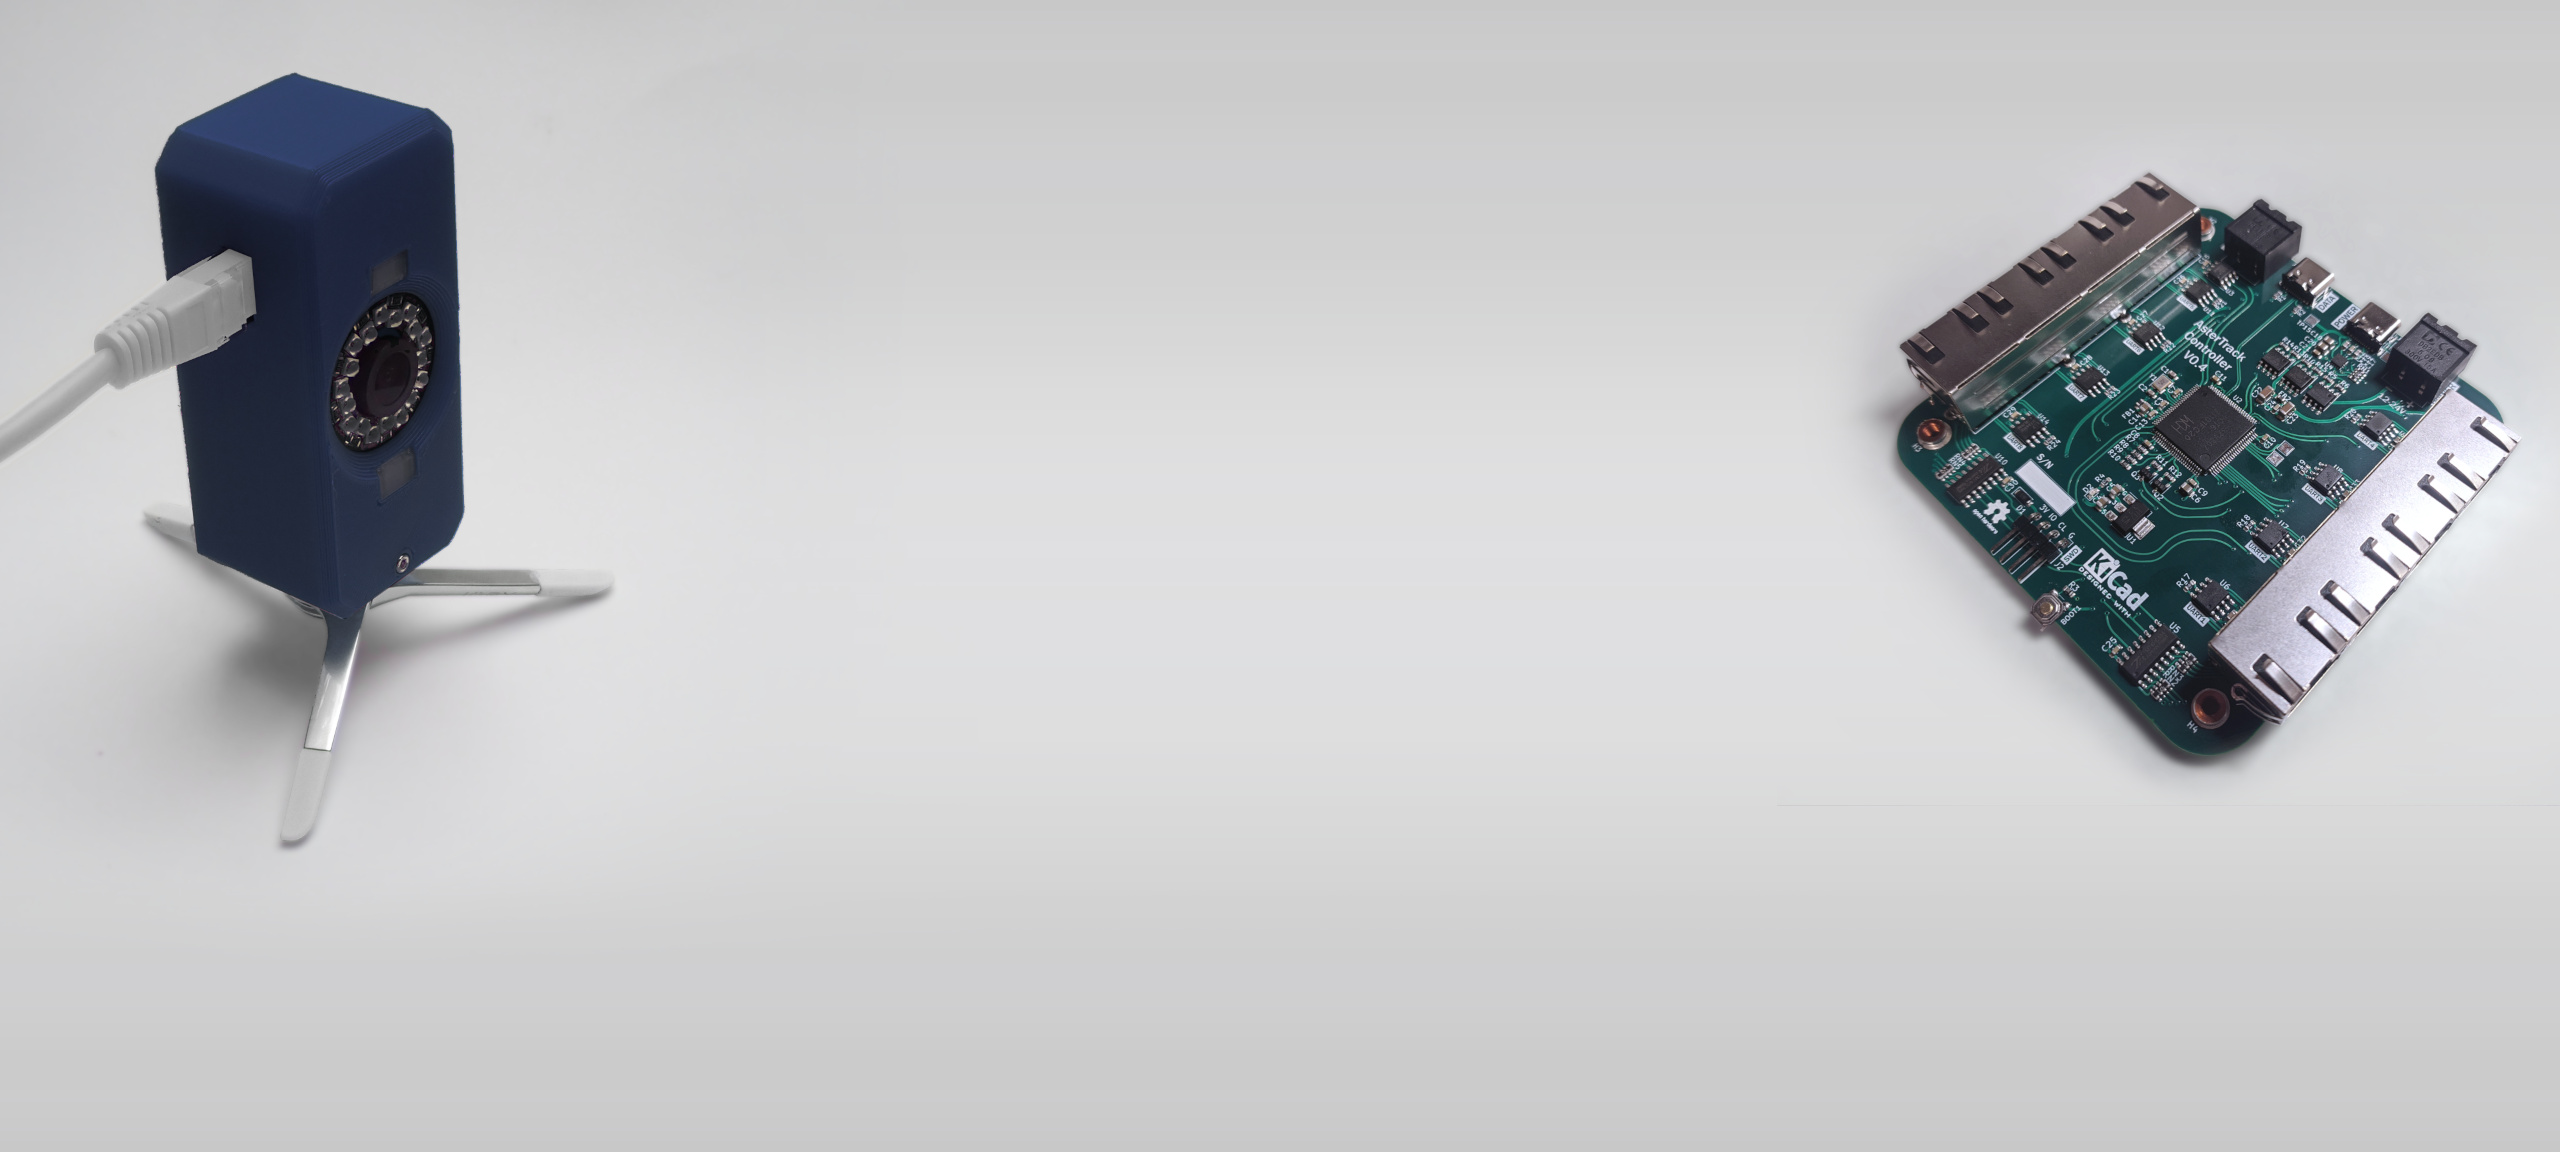
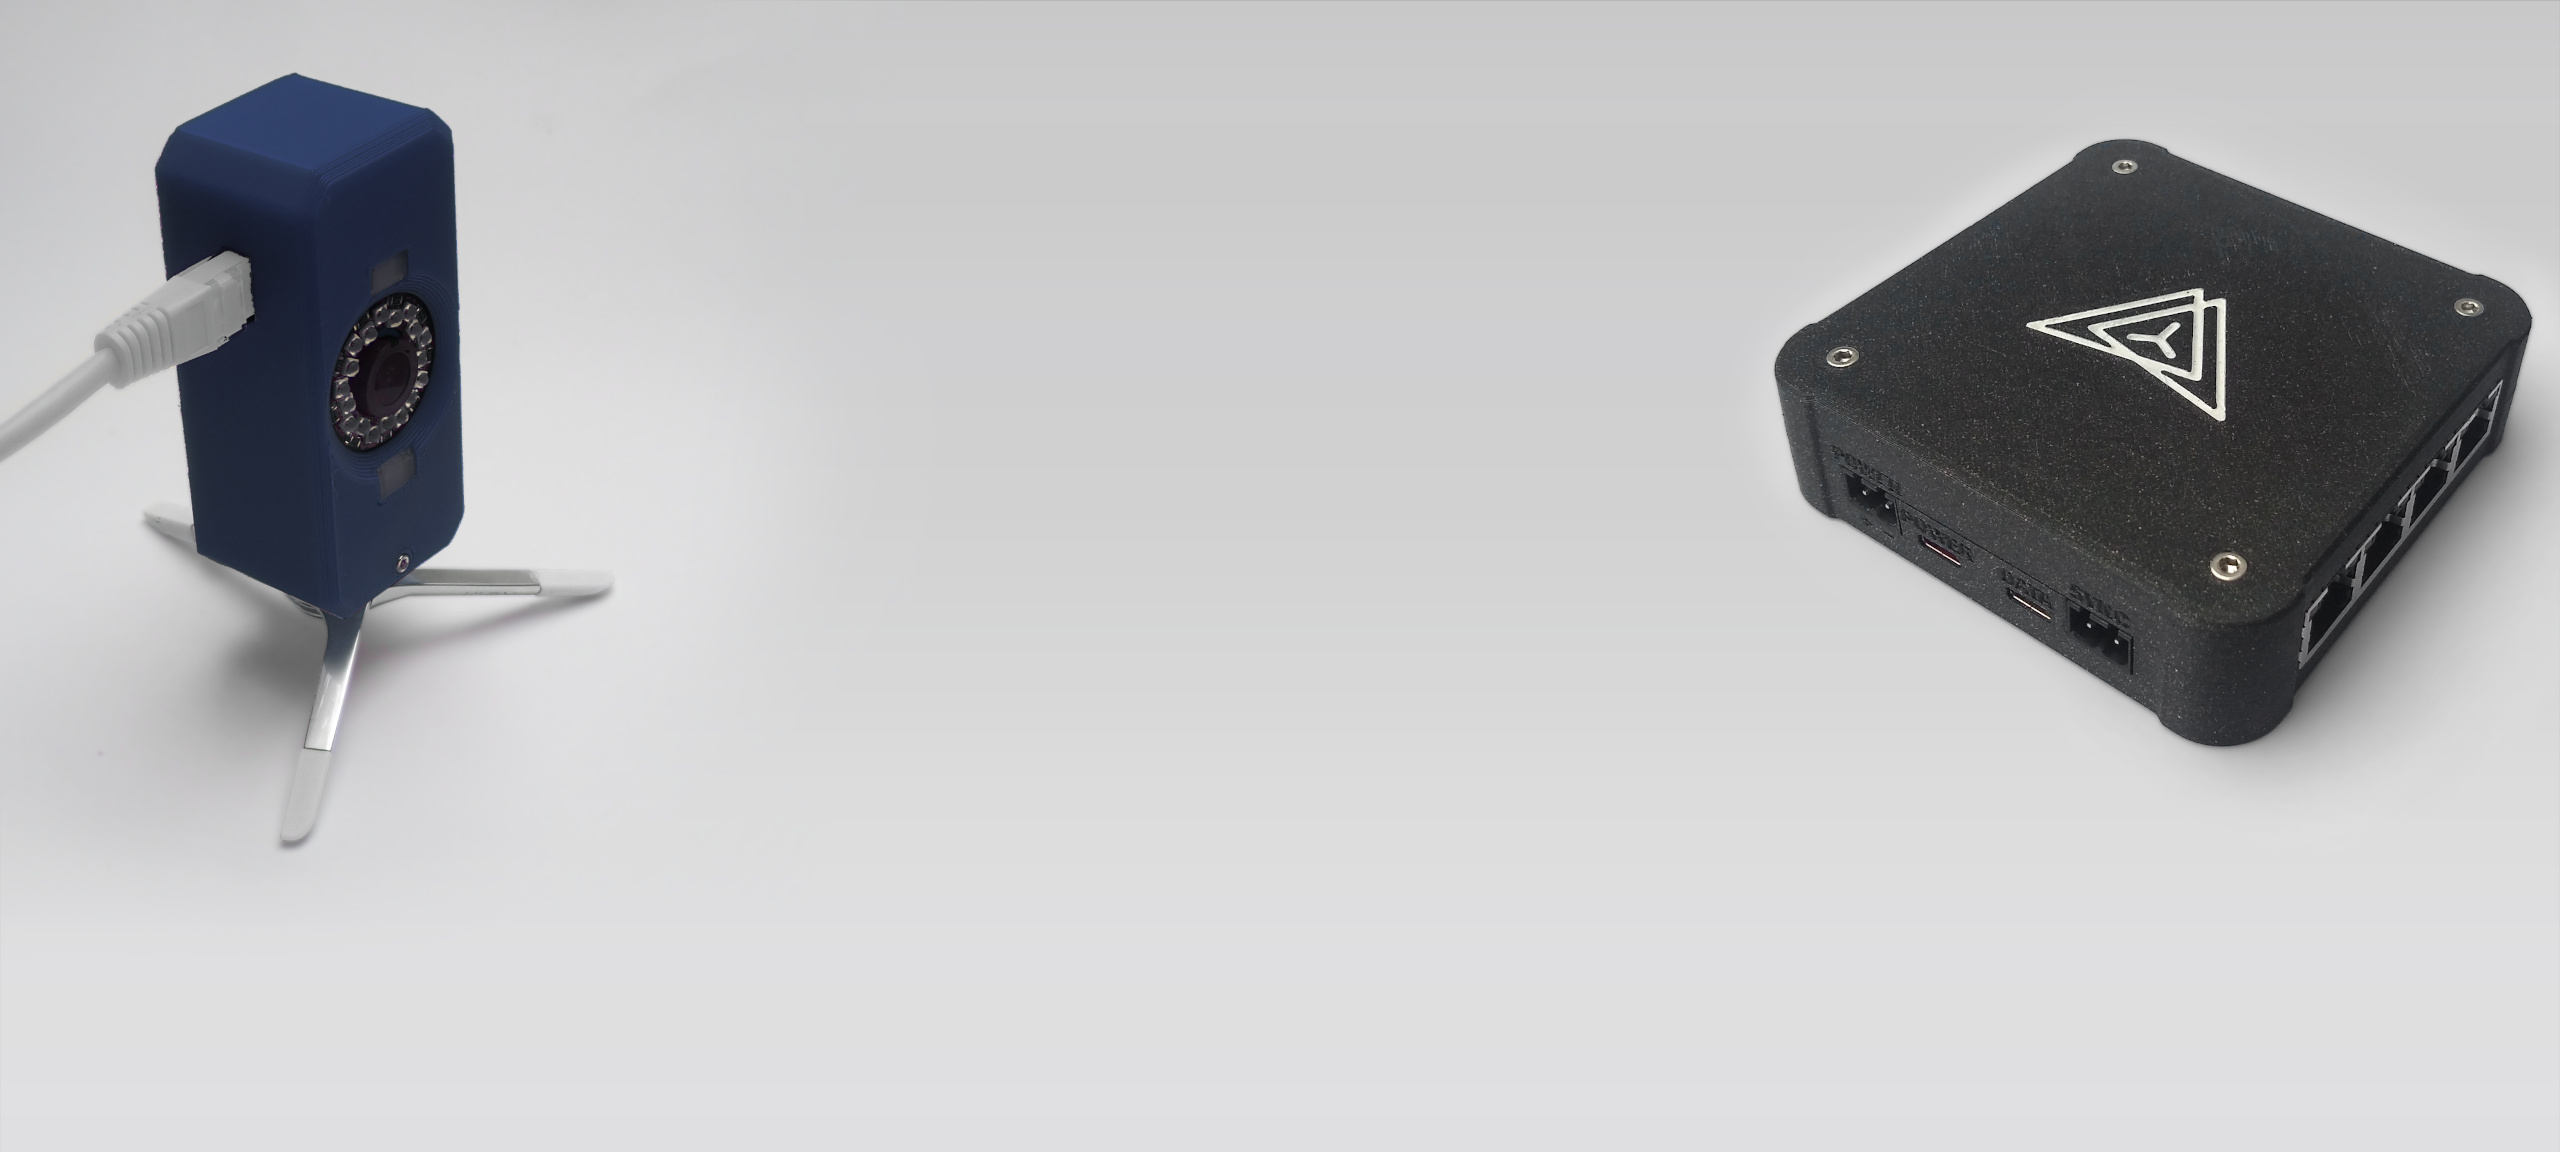
Added photos for new controller case

Changed region(s): [[0.6875, 0.125, 1.0, 0.6875], [0.0, 0.9688, 1.0, 1.0]]

diff --git a/astertrack.html b/astertrack.html
@@ -137,8 +137,8 @@ This can be used to track almost any everyday object with little to no intrusion
 <h4> Roadmap </h4>
 <p>
 The hardware is mostly designed and verified. <br>
-The software is almost ready, but work is still in progress to better calibrate targets. <br>
-We plan to launch a crowdfunding campaign in 2023 and release sources and designs at that point.
+The software is almost ready, but work is still in progress to better support flat-marker targets. <br>
+We plan to launch a crowdfunding campaign in 2024 and release sources and a DIY Design at that point.
 </p>
 
 <form method="post" action="https://mailinglist.seneral.dev/subscription/form" class="listmonk-form">
@@ -208,6 +208,19 @@ We plan to launch a crowdfunding campaign in 2023 and release sources and design
 </center>
 <br>
 
+<center><h3> 2024 </h3></center><br>
+
+<a class="noLinkStyle centerBlock" href="img/AsterTrack/HW_Prototype_Controller_V0.4.2_PortDescription_HQ.jpg" target="_blank">
+	<picture>
+		<source media="(min-width: 2400px)" srcset="img/AsterTrack/HW_Prototype_Controller_V0.4.2_PortDescription_HQ.jpg"/>
+		<source media="(min-width: 1800px)" srcset="img/AsterTrack/HW_Prototype_Controller_V0.4.2_PortDescription_MQ.jpg"/>
+		<img src="img/AsterTrack/HW_Prototype_Controller_V0.4.2_PortDescription_LQ.jpg"
+			alt="Prototype Tracking Controller, black case with IO ports one one side and 2 banks of 4 RJ45 camera ports"/>
+	</picture>
+<br> Prototype Tracking Controller V0.4.2 in new case <br>
+</a> 
+<br>
+
 <center><h3> 2023 </h3></center><br>
 
 <a class="noLinkStyle centerBlock" href="img/AsterTrack/HW_Prototype_Camera_V0.3_Tripod_Blue_HQ.jpg" target="_blank">
@@ -215,9 +228,9 @@ We plan to launch a crowdfunding campaign in 2023 and release sources and design
 		<source media="(min-width: 2400px)" srcset="img/AsterTrack/HW_Prototype_Camera_V0.3_Tripod_Blue_HQ.jpg"/>
 		<source media="(min-width: 1800px)" srcset="img/AsterTrack/HW_Prototype_Camera_V0.3_Tripod_Blue_MQ.jpg"/>
 		<img src="img/AsterTrack/HW_Prototype_Camera_V0.3_Tripod_Blue_LQ.jpg"
-			alt="Prototype Tracking Camera with a CAT cable on a small desktop tripod"/>
+			alt="Prototype Tracking Camera with a CAT cable plugged in on a small tripod"/>
 	</picture>
-<br> Prototype Tracking Camera V0.3 with all final capabilities <br>
+<br> Prototype Tracking Camera V0.3 with most final capabilities <br>
 </a> 
 <br>
 
@@ -248,7 +261,7 @@ We plan to launch a crowdfunding campaign in 2023 and release sources and design
 		<source media="(min-width: 2400px)" srcset="img/AsterTrack/HW_Prototype_Controller_V0.4_Angle_HQ.jpg"/>
 		<source media="(min-width: 1800px)" srcset="img/AsterTrack/HW_Prototype_Controller_V0.4_Angle_MQ.jpg"/>
 		<img src="img/AsterTrack/HW_Prototype_Controller_V0.4_Angle_LQ.jpg"
-			alt="Current Prototype Tracking Controller, single PCB with 8 RJ45 ports without a case"/>
+			alt="Prototype Tracking Controller, single PCB with 8 RJ45 ports without a case"/>
 	</picture>
 <br> Prototype Tracking Controller V0.4 supports 8 cameras with USB-PD, USB 2.0 HS, and Sync & Power IO for larger setups <br>
 </a> 
